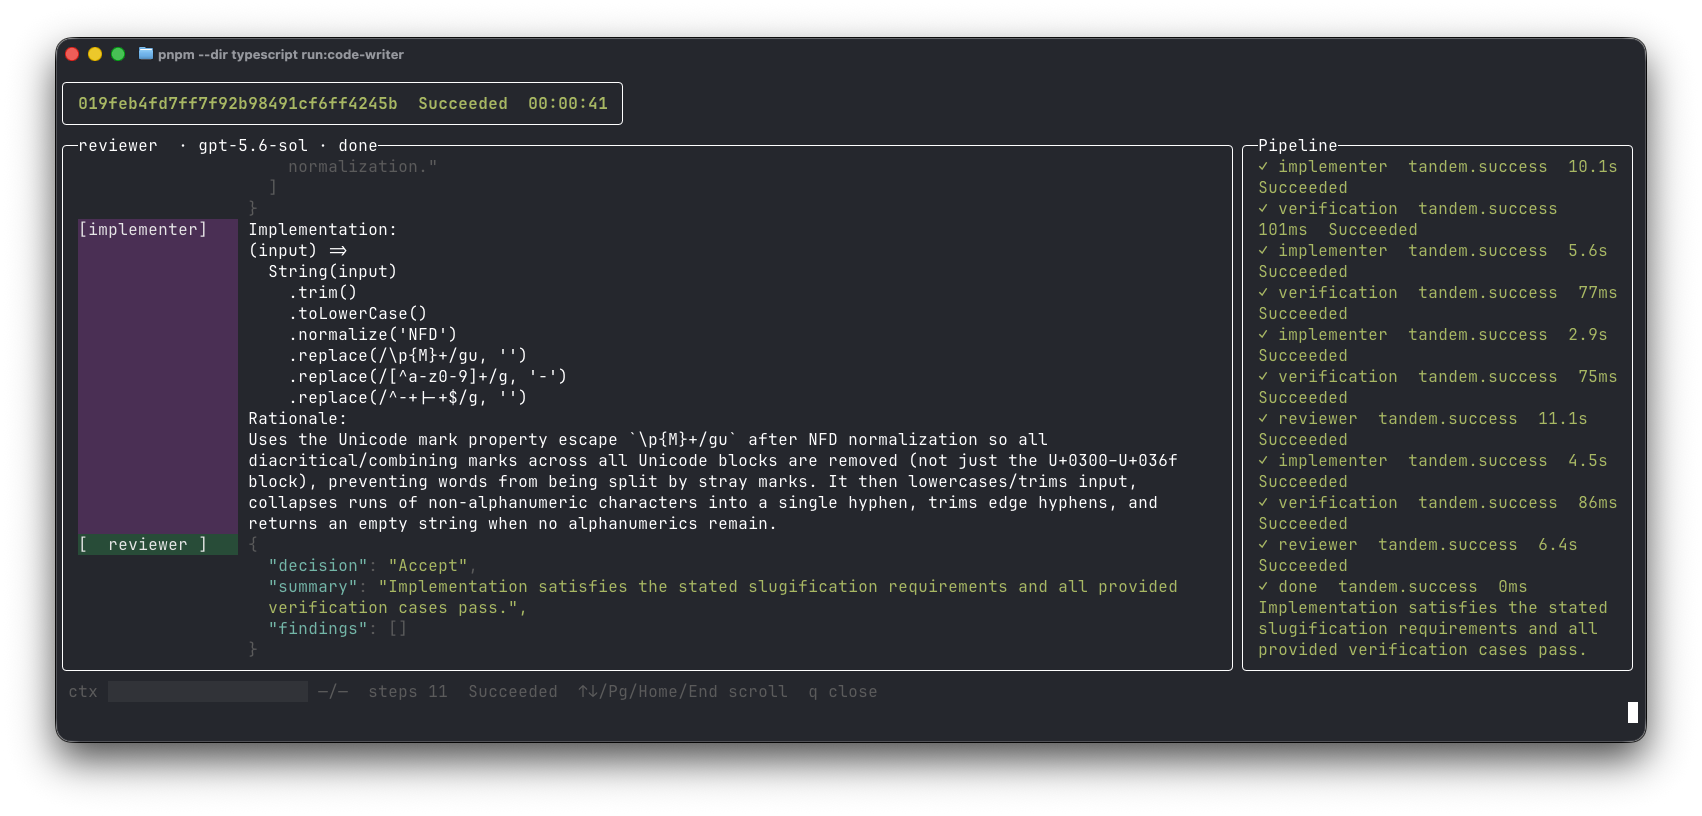
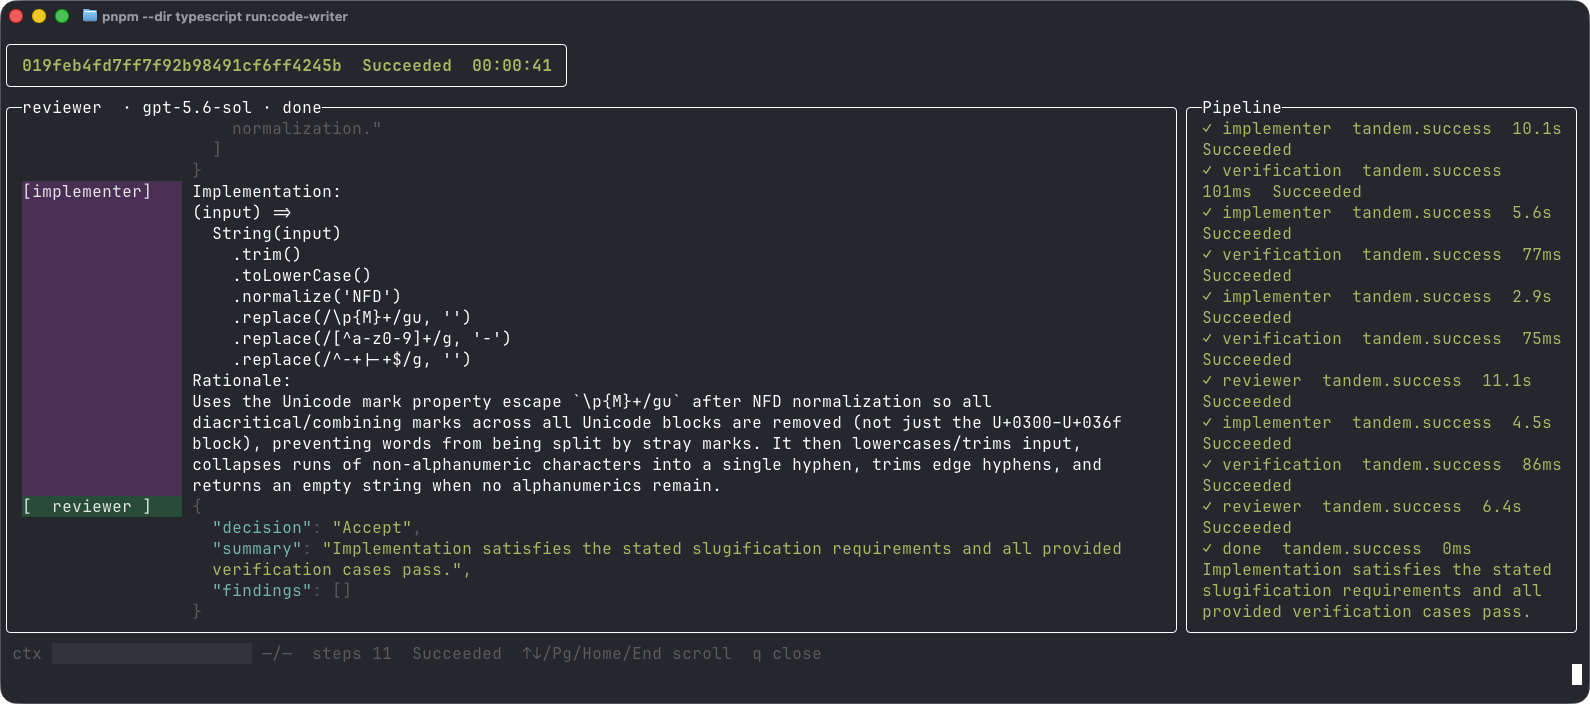
docs: generalize opening pipeline name

diff --git a/README.md b/README.md
@@ -4,9 +4,9 @@ Tandem is a typed SDK for building agentic applications as explicit pipelines. D
 and inspect it.
 
 ```typescript
-const codeWriter = pipeline({
+const myPipeline = pipeline({
   // Give the complete lifecycle one name in logs and the ledger.
-  name: "code-writer",
+  name: "coder-pipeline",
   // Every node reads and returns this same state shape.
   state: State,
 
